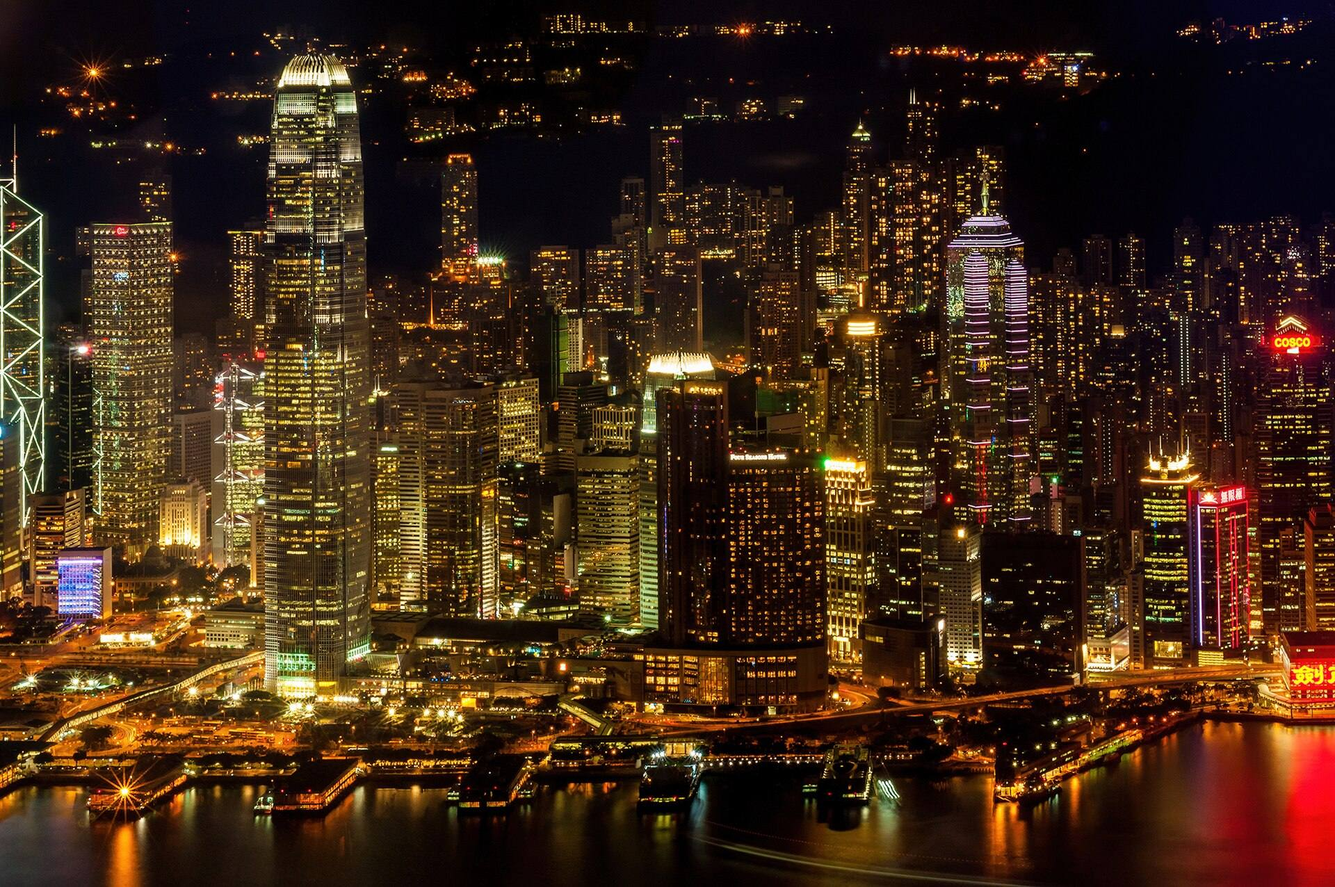
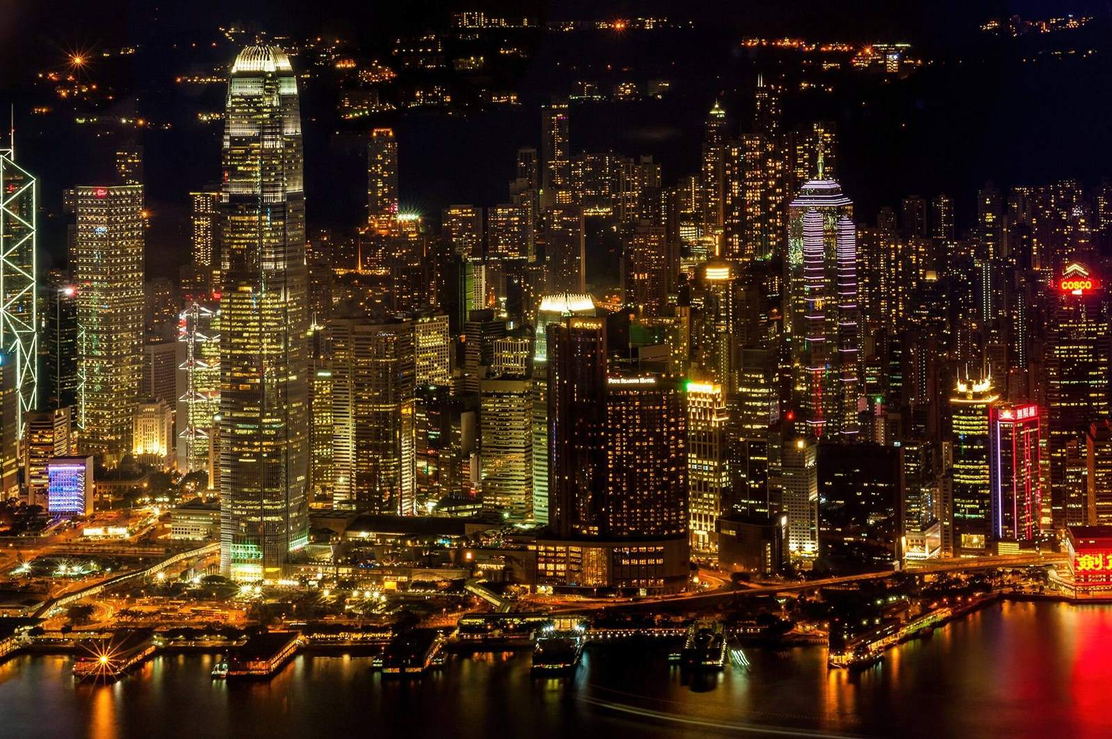
Hero photos: smaller files for the two largest
Claude-Session: https://claude.ai/code/session_01LbDeW52udMWvqj4CXDyeek

diff --git a/us-equities.html b/us-equities.html
@@ -105,7 +105,7 @@
   <main id="main">
     <section class="p-hero" id="top">
       <div class="hero-bg" aria-hidden="true">
-        <picture class="hero-photo" data-hero><img src="assets/hero/capital.jpg" alt="" width="1920" height="1282" style="object-position: 50% 35%" fetchpriority="high"></picture><span class="glow glow-1"></span><span class="glow glow-2"></span><span class="grid"></span></div>
+        <picture class="hero-photo" data-hero><img src="assets/hero/capital.jpg" alt="" width="1600" height="1068" style="object-position: 50% 35%" fetchpriority="high"></picture><span class="glow glow-1"></span><span class="glow glow-2"></span><span class="grid"></span></div>
       <div class="container p-hero-inner">
         <p class="eyebrow reveal"><span class="dot" aria-hidden="true"></span><span lang="en">Finance &amp; Investment · Fuway Capital</span><span lang="zh-Hant">金融投資 · 富輝資本</span></p>
         <h1 class="p-title reveal"><span lang="en">US Equities: IPO &amp; M&amp;A</span><span lang="zh-Hant">美股上市及併購</span></h1>

diff --git a/about.html b/about.html
@@ -108,7 +108,7 @@
   <main id="main">
     <section class="p-hero" id="top">
       <div class="hero-bg" aria-hidden="true">
-        <picture class="hero-photo" data-hero><img src="assets/hero/about.jpg" alt="" width="1920" height="1276" style="object-position: 50% 55%" fetchpriority="high"></picture><span class="glow glow-1"></span><span class="glow glow-2"></span><span class="grid"></span></div>
+        <picture class="hero-photo" data-hero><img src="assets/hero/about.jpg" alt="" width="1600" height="1063" style="object-position: 50% 55%" fetchpriority="high"></picture><span class="glow glow-1"></span><span class="glow glow-2"></span><span class="grid"></span></div>
       <div class="container p-hero-inner">
         <p class="eyebrow reveal"><span class="dot" aria-hidden="true"></span><span lang="en">About</span><span lang="zh-Hant">關於</span></p>
         <h1 class="p-title reveal"><span lang="en">About me</span><span lang="zh-Hant">關於我</span></h1>
